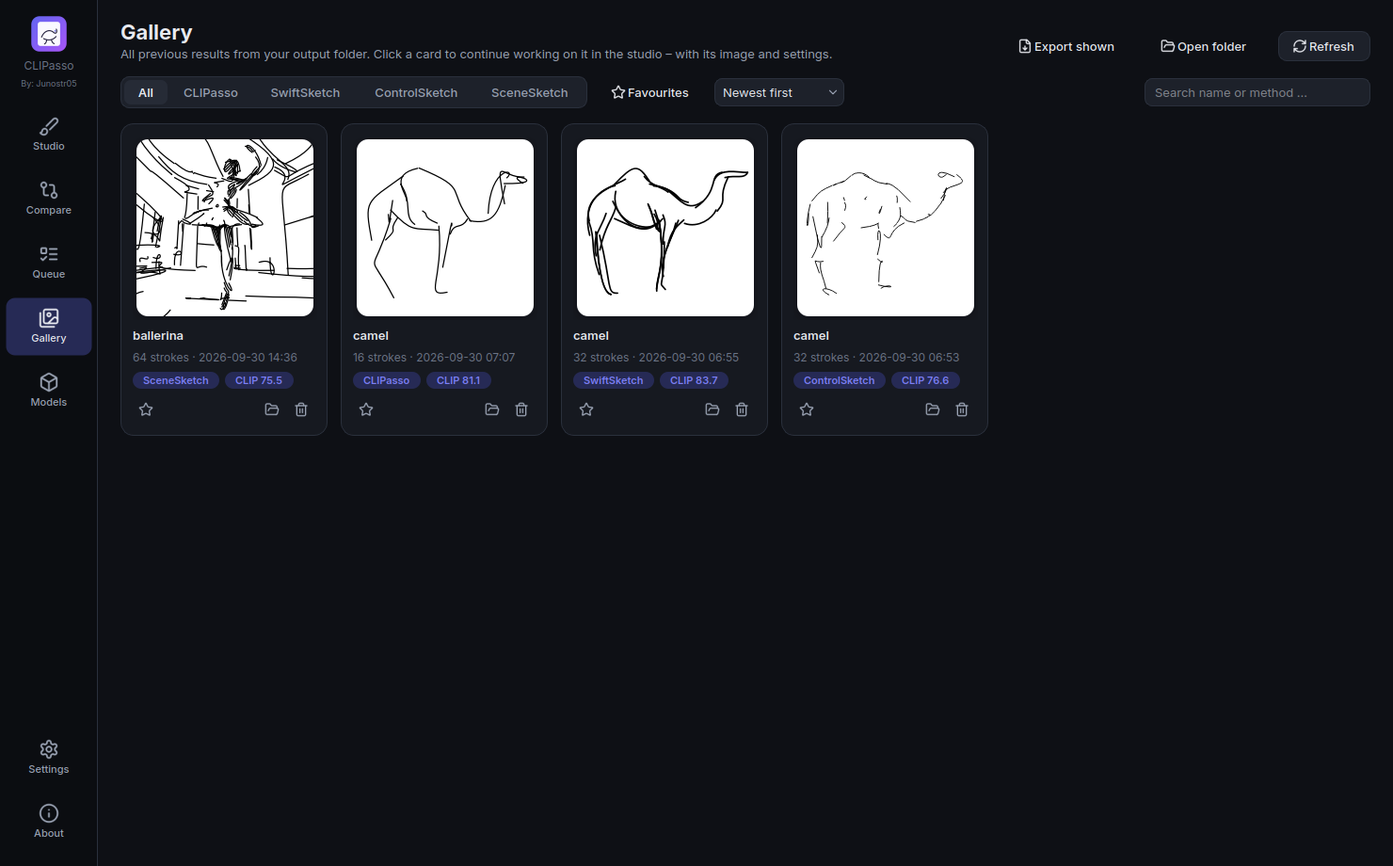
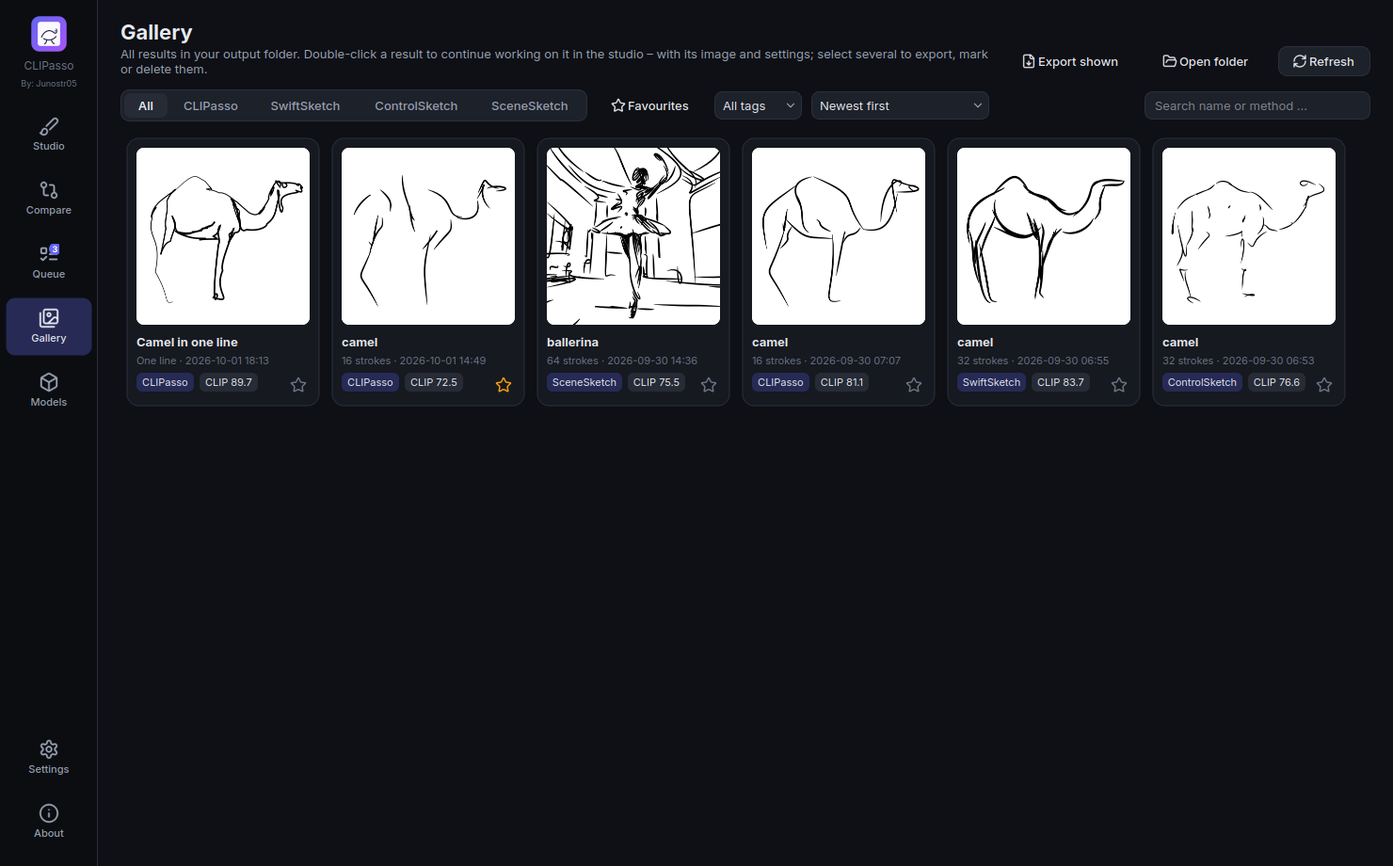
Release 3.0.0: version, README, release notes and screenshots
- version 3.0.0
- README: download table with the portable ZIP, the new features (turbo,
  one line, draw and continue, live brush style, free aspect ratio, inputs,
  gallery 2.0, queue control, watched folder, reliability), the faster
  renderer with measured times, TAESD credit
- release notes for 3.0 (measured numbers; results not bit-identical to 2.4)
- new screenshots (studio in ink style, gallery 2.0, queue, settings with
  watched folder and storage, SceneSketch, ControlSketch, light theme)
- tools/screenshots.py: --set for app settings, --queue for waiting jobs

Claude-Session: https://claude.ai/code/session_01S7pgJpBq7v1cwD5D27gajo

Changed region(s): [[0.0932, 0.0304, 0.9946, 0.487]]

diff --git a/tools/screenshots.py b/tools/screenshots.py
@@ -2,6 +2,7 @@
 
 Usage: python tools/screenshots.py OUT_DIR [--job JOB_DIR ...] [--theme dark|light] [--lang de|en]
                                    [--pages studio,studio:swiftsketch,compare,...]
+                                   [--set canvas_style=ink ...] [--queue IMAGE[:METHOD] ...]
 
 ``studio:<method>`` shows the studio with that method selected (and the given job of that method,
 if any); ``studio:<method>:<view>`` also picks the canvas view (e.g. ``studio:scenesketch:matrix``).
@@ -31,6 +32,8 @@ def main() -> int:
     ap.add_argument("--pages", default="studio,compare,queue,gallery,models,settings,about")
     ap.add_argument("--size", default="1480x920")
     ap.add_argument("--models", default="", help="folder of downloaded models to show as installed")
+    ap.add_argument("--set", action="append", default=[], help="app setting KEY=VALUE (VALUE as JSON or text)")
+    ap.add_argument("--queue", action="append", default=[], help="IMAGE[:METHOD] waiting in the queue")
     args = ap.parse_args()
 
     # isolated user data so the real settings are untouched
@@ -57,6 +60,14 @@ def main() -> int:
     s.data["language"] = args.lang
     if args.job:
         s.data["output_dir"] = str(Path(args.job[0]).parent)
+    import json
+
+    for item in args.set:
+        key, _, value = item.partition("=")
+        try:
+            s.data[key] = json.loads(value)
+        except ValueError:
+            s.data[key] = value
     theme.load_fonts()
     theme.apply(app, args.theme)
     i18n.set_language(args.lang)
@@ -64,14 +75,20 @@ def main() -> int:
     from clipasso_studio.gui.main_window import MainWindow
 
     w = MainWindow()
+    if args.queue:
+        from clipasso_studio import settings_schema as schema
+
+        w.controller.start_next = lambda: None  # waiting only
+        for item in args.queue:
+            image, _, method = item.rpartition(":") if item.count(":") > (1 if os.name == "nt" else 0) \
+                else (item, "", "")
+            w.controller.enqueue(image, schema.default_settings(method or "clipasso"), start=False)
     width, height = (int(v) for v in args.size.split("x"))
     w.resize(width, height)
     w.show()
     out = Path(args.out)
     out.mkdir(parents=True, exist_ok=True)
     pages = args.pages.split(",")
-
-    import json
 
     jobs = {}
     for j in args.job:

diff --git a/clipasso_studio/__init__.py b/clipasso_studio/__init__.py
@@ -1,5 +1,5 @@
 """CLIPasso Studio – desktop app for vector sketching from photos (CLIPasso, SwiftSketch, ControlSketch)."""
 
-__version__ = "2.4.0"
+__version__ = "3.0.0"
 APP_NAME = "CLIPasso Studio"
 APP_ID = "CLIPassoStudio"

diff --git a/README.md b/README.md
@@ -26,17 +26,18 @@
 </p>
 <p align="center"><sub>Made with this app on a CPU: CLIPasso (16 strokes, “Fast” preset, 11 min), SwiftSketch (32 strokes, 4 s per sketch), ControlSketch (32 strokes – only 250 of the 2000 iterations, 67 min; with an NVIDIA GPU the full run takes a few minutes).</sub></p>
 
-![Studio](docs/screenshots/studio_dark_en.png)
+![Studio – the CLIPasso sketch shown in the ink brush style](docs/screenshots/studio_dark_en.png)
 
 ## Download
 
-The [releases page](https://github.com/Junostr05/CLIPasso-Studio/releases/latest) has three variants:
+The [releases page](https://github.com/Junostr05/CLIPasso-Studio/releases/latest) has four variants:
 
 | File | Description |
 |---|---|
-| **`CLIPassoStudio-CPU-Portable.exe`** (≈ 1 GB) | A single file: download, double-click, done. No installation and no Python needed. Everything CLIPasso needs is included; SwiftSketch, ControlSketch and SceneSketch download their models the first time you use them (see below). It unpacks itself on start (15–40 s, with a splash screen). |
-| **`CLIPassoStudio-CPU-Setup.exe`** (≈ 1 GB) | The same app as an installer: install once, then it starts quickly and gets Start menu and desktop shortcuts. No admin rights needed. |
-| **`CLIPassoStudio-GPU-Setup.exe`** + `…-GPU-Setup-*.bin` (≈ 3.5 GB) | Edition for NVIDIA graphics cards (CUDA 12.8: GeForce GTX 16xx / RTX 20xx or newer, driver ≥ 570). CLIPasso and SceneSketch run 10–50× faster, and **ControlSketch is only practical with this edition**. Because it is larger than 2 GB, it is split into several files: **download all of them into the same folder** and run the `Setup.exe`. Without a suitable GPU it automatically falls back to the CPU. |
+| **`CLIPassoStudio-CPU-Portable.zip`** (≈ 1 GB) | Portable without installation: unpack the ZIP anywhere (e.g. a USB stick) and start `CLIPassoStudio.exe` in it. Starts as fast as the installed app and updates itself (the new version is unpacked next to the old folder, which it then offers to delete). |
+| **`CLIPassoStudio-CPU-Portable.exe`** (≈ 1 GB) | A single file: download, double-click, done. No installation and no Python needed. Everything CLIPasso needs is included; SwiftSketch, ControlSketch and SceneSketch download their models the first time you use them (see below). It unpacks itself on every start (15–40 s, with a splash screen). |
+| **`CLIPassoStudio-CPU-Setup.exe`** (≈ 1 GB) | The same app as an installer: install once, then it starts quickly and gets Start menu and desktop shortcuts. No admin rights needed. Uninstalling asks whether the downloaded models and the app data should be removed too (your sketches always stay). |
+| **`CLIPassoStudio-GPU-Setup.exe`** + `…-GPU-Setup-*.bin` (≈ 3.5 GB) | Edition for NVIDIA graphics cards (CUDA 12.8: GeForce GTX 16xx / RTX 20xx or newer, driver ≥ 570). CLIPasso and SceneSketch run 10–50× faster, and **ControlSketch is only practical with this edition**. Because it is larger than 2 GB, it is split into several files: **download all of them into the same folder** and run the `Setup.exe`. Without a suitable GPU it automatically falls back to the CPU. Can be installed next to the CPU edition (shortcut “CLIPasso Studio GPU”). |
 
 > Windows SmartScreen may warn about an “unknown publisher” (the exe is not signed) → *More info* → *Run anyway*.
 
@@ -80,21 +81,32 @@ Pick the method at the top of the studio with one click. Parameters, presets, ti
   - Checked by a test (`tests/test_settings.py`): every original argument has a setting with the same default value.
 - **Live preview** for all methods: you watch the sketch being drawn (for SwiftSketch every denoising step). Plus a photo/sketch slider, the attention map with the stroke start points, the mask, the ControlNet condition image for ControlSketch, a loss or CLIP score curve, the remaining time and thumbnails of all seeds. **Several sketches per image – the best one is picked automatically** (CLIPasso: lowest loss; SwiftSketch and ControlSketch: highest CLIP score).
 - **Presets** (Fast / Standard / Quality) per method, import/export of the settings as JSON, “copy command line”.
+- **Turbo mode** (CLIPasso, ControlSketch, SceneSketch) – faster, with a slightly different result: the CLIP features of a fixed set of augmentations are computed once, only the best of several sketches is finished (the others stop at a quarter), and a sketch stops once it no longer improves; ControlSketch uses the small TAESD decoder, a 384 px working canvas and, on CPUs with AVX512-BF16/AMX, bfloat16. Measured on 4 CPU cores: CLIPasso 1.02 → 0.70 s per iteration (a standard job with 3 sketches about 3× faster with the pruning), ControlSketch 15.1 → 2.3 s per iteration.
+- **One line** (CLIPasso): the subject in one single continuous stroke – the start points are joined into a short route and optimised as one path with many segments.
+- **Draw yourself and continue**: draw your own strokes into a finished sketch with the **pen**, then *Continue with CLIPasso* – your strokes stay fixed, CLIPasso adds new ones around them.
+- **Brush style live**: show the sketches in ink, pencil or marker right in the studio – also while they are being computed; the export starts with the same style.
 - **Precise object mask with BiRefNet**: finds the object for all four methods – far more accurately than U²-Net (fine details like poles, hair or cables, several objects, busy backgrounds). Downloaded once (444 MB); *BiRefNet lite* (faster, 89 MB) or the original U²-Net can be picked per method (“Mask model”). Masks are cached, so the same image is not computed twice.
 - **See and fix the mask before a run**: the studio shows the object on the input image as soon as you pick one. *Edit mask*: click a part to remove it, click next to the object to add an area of similar colour (magic wand), or paint with the brush – every method then uses your mask. Small objects in large photos are **framed automatically** so they fill the canvas (CLIPasso, SwiftSketch; can be switched off).
 - **Touch-ups**: crop, rotate or flip the input image right in the studio; remove single strokes from a finished sketch with the **eraser** (with undo – the original stays).
+- **Free aspect ratio**: export in the square of the method, **in the shape of the photo** or **cropped to the strokes** (with a margin) – the strokes stay vectors, only the frame changes. For every format, also when exporting many at once.
 - **Export**: SVG (stroke colour, width, background, **brush style**: plain, ink, pencil or marker), **SVG · 1 layer** (all strokes as one path in a single layer – for plotters, cutting machines such as Cricut or Silhouette, and laser software), PNG at any resolution, **PDF** (vector, for printing), **GIF / MP4 / animated WebP** – of the drawing process (for SwiftSketch: how the strokes emerge from noise) or **stroke by stroke** like by hand; you set how long the drawing takes and the frame rate follows. **SVG · animated**: an SVG that draws itself in the browser. **Copy** (Ctrl+C) puts the sketch on the clipboard. SceneSketch: the **whole matrix** as one ZIP (every sketch as SVG and PNG plus an overview sheet). Abstraction series with one click (CLIPasso, ControlSketch).
-- **Queue** for many images (a whole folder at once, or **drag & drop** images and folders), also with mixed methods, with pause/cancel, a notification when done and protection against sleep mode – and, for runs overnight, **sleep or shut down when done**. **Export all** results of the queue – or all results the gallery shows – in one go.
+- **Inputs**: JPEG, PNG, WebP, **HEIC/HEIF** (iPhone photos), **AVIF**, TIFF, BMP and GIF (photos are turned upright by their EXIF rotation), the clipboard, a **webcam photo** and the **recent images** menu.
+- **Queue** for many images (a whole folder at once, or **drag & drop** images and folders), also with mixed methods: **reorder by dragging**, pause/cancel/retry per row, details with the settings that differ from the defaults (*Load into the studio*, *Replace by the studio settings*), the total time left, a notification when done and protection against sleep mode – and, for runs overnight, **sleep or shut down when done**. Failed jobs stay in the queue after a restart. **Export all** results of the queue – or all results the gallery shows – in one go.
+- **Watched folder**: images saved into a chosen folder (e.g. by a scanner or a phone sync) are sketched by themselves with the studio settings or a preset and exported in the formats you pick; optionally moved into `done/` afterwards.
+- **Models stay loaded** between the jobs of a queue, and on a CPU with enough cores and memory the sketches of a CLIPasso or SwiftSketch job run **in parallel**.
 - **Continue interrupted jobs**: long runs save checkpoints; if the app or the PC closes (or you cancel), *Continue* picks up where it stopped – finished sketches are kept.
-- **Gallery** of all results: click one to continue working on it in the studio – with its image and settings (every job keeps a copy of its input image, so this works even after the original was moved or deleted). Favourites, sorting, search, method filter, “Show folder” and delete (to the recycle bin).
-- **Models** page grouped by method: download with progress, delete, manual import of the SwiftSketch weights (in case Google Drive hits its daily quota). Interrupted downloads continue where they stopped; the **model folder** can be moved to another drive.
+- **Gallery** of all results – fast also with thousands of sketches: click one to continue working on it in the studio – with its image and settings (every job keeps a copy of its input image, so this works even after the original was moved or deleted). **Multi-select** (Ctrl/Shift/rubber band) to delete, export or mark as favourite; **title, notes and tags** with a tag filter; sorting by date, score, duration, strokes or name; search, method filter, “Show folder”, keyboard control (arrows, Enter, Del, F, Ctrl+A).
+- **Models** page grouped by method: download with progress, delete, manual import of the SwiftSketch weights (in case Google Drive hits its daily quota). Downloads check the free space first, are verified by checksum and continue where they stopped (also from another mirror); the **model folder** can be moved to another drive.
 - **Dark/light theme**, **English/German** interface (follows the Windows language, switchable at runtime), keyboard shortcuts (Ctrl+V pastes an image, Ctrl+Enter starts), and a command-line mode that is compatible with the original arguments of all four methods.
-- **Updates with one click** (download, checksum check, install – can be switched off), adjustable **interface size** (90–150 %), a short **guide** on the first start (again on the About page) and a **crash log**: unexpected errors are shown and saved in a log file that you can attach to a bug report.
+- **Updates with one click** (download, checksum check, install – can be switched off, or *Check now*), with the release notes (*What's new?*); after an update the app shows what is new. Adjustable **interface size** (90–150 %), a short **guide** on the first start (again on the About page).
+- **Reliability**: when the graphics memory runs out, the app offers to continue on the CPU or with smaller settings (finished sketches are kept); a **crash log** with the Python stacks also of a crashed worker process; **Copy / save diagnostics** (version, system, GPU, folders, models, last log lines) for a bug report; a **storage** overview that clears caches, old updates and pasted images; when the output folder changes, the results can move along.
 
 <p>
   <img src="docs/screenshots/studio_scenesketch_dark_en.png" width="49%" alt="SceneSketch's matrix view in the studio">
   <img src="docs/screenshots/studio_controlsketch_dark_en.png" width="49%" alt="ControlSketch in the studio">
-  <img src="docs/screenshots/gallery_dark_en.png" width="49%" alt="Gallery with favourites and card actions">
+  <img src="docs/screenshots/gallery_dark_en.png" width="49%" alt="Gallery with titles, favourites and tags">
+  <img src="docs/screenshots/queue_dark_en.png" width="49%" alt="Queue with mixed methods and the total time left">
+  <img src="docs/screenshots/settings_dark_en.png" width="49%" alt="Settings: watched folder and storage">
   <img src="docs/screenshots/studio_light_en.png" width="49%" alt="Light theme">
 </p>
 
@@ -124,7 +136,7 @@ In CLI mode, missing models are downloaded automatically (`--no_download` preven
 ## How it works / differences from the originals
 
 **CLIPasso** – the original code (painter, loss, optimisation, selection of the best sketch), ported to Python 3.11 / PyTorch 2.11:
-- **Renderer:** instead of the C++/CUDA rasteriser *diffvg*, which is hard to build on Windows, the app uses a **differentiable Bézier renderer in pure PyTorch** (`clipasso_studio/engine/renderer.py`, gradients tested against finite differences). All three methods use it.
+- **Renderer:** instead of the C++/CUDA rasteriser *diffvg*, which is hard to build on Windows, the app uses a **differentiable Bézier renderer in pure PyTorch** (`clipasso_studio/engine/renderer.py`, gradients tested against finite differences). All four methods use it. Since 3.0 it bounds every Bézier segment separately and computes the distance with gradient only for the nearest segment: a CLIPasso render step takes 47–62 instead of 68–152 ms, a single line of 48 segments 40 instead of 4059 ms, ControlSketch 639 instead of 1752 ms (same image as before; gradients equal up to float summation order, so results are not bit-identical to 2.4).
 - **Bugs of the original fixed**, so that every option works: `percep_loss` (L2/LPIPS) and `clip_text_guide` were not wired up, `lr_scheduler` called a missing function, the “Cos” conv loss crashed for ResNets, `num_stages` was not implemented in the main loop, and `mask_object_attention`, `augment_both`, `include_target_in_aug` and `aug_scale_min` had no effect.
 
 **SwiftSketch** – an independent implementation of the transformer decoder, the DDPM sampler (cosine schedule, x₀ prediction, classifier-free guidance) and the refinement step; the original repository has no licence file, so no code is copied. It loads the **authors' official weights** unchanged and was checked against the original code: identical network outputs (max. difference 0.0) and sampler steps (≤ 1.4·10⁻⁶). One difference: the background mask comes from BiRefNet (or U²-Net) instead of BRIA RMBG-1.4, whose licence does not allow redistribution.
@@ -169,6 +181,7 @@ The complete Windows build (both editions, installers, self-test of the exe and 
 - **SwiftSketch / ControlSketch** – Ellie Arar, Yarden Frenkel, Daniel Cohen-Or, Ariel Shamir, Yael Vinker: *SwiftSketch: A Diffusion Model for Image-to-Vector Sketch Generation*, SIGGRAPH 2025 – [Paper](https://arxiv.org/abs/2502.08642) · [Project](https://swiftsketch.github.io/) · [Code](https://github.com/swiftsketch/SwiftSketch).
 - **SceneSketch (CLIPascene)** – Yael Vinker, Yuval Alaluf, Daniel Cohen-Or, Ariel Shamir: *CLIPascene: Scene Sketching with Different Types and Levels of Abstraction*, ICCV 2023 – [Paper](https://arxiv.org/abs/2211.17256) · [Project](https://clipascene.github.io/CLIPascene/) · [Code](https://github.com/yael-vinker/SceneSketch). The sample scenes (ballerina, house) come from its repository.
 - **LaMa** – Roman Suvorov et al.: *Resolution-robust Large Mask Inpainting with Fourier Convolutions*, WACV 2022 – [Code](https://github.com/advimman/lama).
+- **TAESD** – Ollin Boer Bohan: *Tiny AutoEncoder for Stable Diffusion* (MIT), used by the turbo mode of ControlSketch – [Code](https://github.com/madebyollin/taesd).
 - **BiRefNet** – Peng Zheng, Dehong Gao, Deng-Ping Fan, Li Liu, Jorma Laaksonen, Wanli Ouyang, Nicu Sebe: *Bilateral Reference for High-Resolution Dichotomous Image Segmentation*, CAAI Artificial Intelligence Research 2024 – [Code](https://github.com/ZhengPeng7/BiRefNet) · [Weights](https://huggingface.co/ZhengPeng7/BiRefNet).
 
 ### The app

diff --git a/packaging/release_notes.md b/packaging/release_notes.md
@@ -1,35 +1,49 @@
-## CLIPasso Studio 2.4 – a much better mask, and you can fix it
+## CLIPasso Studio 3.0 – faster, draw along, one line, free format
 
-**BiRefNet finds the object.** Removing the background (CLIPasso, SwiftSketch, ControlSketch) and separating object and background (SceneSketch) now use **BiRefNet**, a state-of-the-art segmentation network, instead of U²-Net. It keeps fine parts (a sign's pole, a shower hose, thin legs), finds several objects (two teddy bears instead of one) and leaves no grey haze of background around the object.
-- Downloaded once on the first run that removes the background (444 MB) – a few seconds per image on a CPU, well under one on a GPU. Masks are cached, so the same image is never computed twice.
-- **Mask model** in the image settings: *BiRefNet* (best, the default), *BiRefNet lite* (faster, 89 MB) or *U²-Net* (included, the original).
+**Turbo mode** (CLIPasso, ControlSketch, SceneSketch) – a switch in the input card: faster, with a slightly different result.
+- The CLIP features of a fixed set of 64 augmentations are computed once instead of every step; with several sketches all run to a quarter and only the best one is finished; a sketch stops once it no longer improves.
+- ControlSketch encodes with the small **TAESD** decoder (10 MB, downloaded on first use), works on a 384 px canvas and, on CPUs with AVX512-BF16/AMX, in bfloat16.
+- Measured on 4 CPU cores: CLIPasso 1.02 → 0.70 s per iteration (a standard job with 3 sketches about 3× faster with the pruning), ControlSketch 15.1 → 2.3 s per iteration.
 
-**See and fix the mask before you start**
-- The studio shows the object on your photo as soon as you pick one (the eye button hides it).
-- **Edit mask** (brush icon): click a part to remove it, click next to the object to add an area of similar colour (magic wand), or paint with the brush; undo / redo. Every method uses your mask – also in the queue and when a job is continued.
-- **Fit the object** (CLIPasso, SwiftSketch): a small object in a large photo is cropped so it fills the canvas – a full-size sketch instead of a tiny one.
+**Draw, continue, one line**
+- **Brush style live**: ink, pencil or marker right in the studio, also while the sketch is being computed (palette in the bar above the sketch).
+- **Pen + Continue with CLIPasso**: draw your own strokes into a finished sketch; CLIPasso adds new strokes around them and keeps yours fixed.
+- **One line**: CLIPasso draws the subject in one single continuous stroke.
 
-**Export**
-- **Stroke by stroke**: GIF, MP4 and WebP can show the finished strokes being drawn one after another, like by hand (or the drawing process as before).
-- **SVG · animated**: an SVG that draws itself in the browser – for websites and presentations.
-- **PDF** for printing (vector, any size) – also in “Export all”.
-- **Copy** (Ctrl+C, or the gallery card menu): the sketch goes to the clipboard – paste it into Word, PowerPoint, Figma, Photoshop …
+**Faster without turbo** – the same algorithms and the same quality as 2.4:
+- New stroke rasterizer: a CLIPasso render step takes 47–62 instead of 68–152 ms, one line of 48 segments 40 instead of 4059 ms, ControlSketch 639 instead of 1752 ms (measured on a CPU).
+- The models stay loaded between the jobs of a queue; on a CPU with at least 6 cores and enough memory the sketches of a CLIPasso or SwiftSketch job run in parallel.
+- The app starts without loading PyTorch; exports run in the background.
+- Note: the results are not bit-identical to 2.4 – tiny rounding differences of the new renderer grow over thousands of optimisation steps.
 
-**Workflow**
-- **Drag & drop** several images or whole folders onto the studio or the queue.
-- **When the queue is done**: sleep or shut down the PC after the last job (with a 60-second countdown) – for runs overnight.
-- **Model folder**: keep the downloaded models (up to ~10 GB) on another drive (Settings → Files).
-- A short **guide** on the first start (again via “Show the guide” on the About page).
+**Formats and inputs**
+- **Free aspect ratio**: export in the shape of the photo or cropped to the strokes (with a margin) – SVG, PNG, PDF, animations, copy and *Export all*.
+- **HEIC/HEIF** (iPhone), **AVIF**, TIFF, BMP, GIF; photos are turned upright by their EXIF rotation.
+- **Webcam** photo and a **Recent images** menu in the studio.
+
+**Gallery, queue, watched folder**
+- **Gallery 2.0**: fast with thousands of sketches; multi-select (delete, export, favourite), title / notes / tags with a filter, sorting by score, duration, strokes or name, keyboard.
+- **Queue**: reorder by dragging; pause, cancel, retry per row; details with *Load into the studio* and *Replace by the studio settings*; total time left. Failed and cancelled jobs stay after a restart.
+- **Watched folder** (Settings): images saved into a folder are sketched and exported by themselves.
+
+**Reliability**
+- Graphics memory full → continue on the CPU or with smaller settings; finished sketches are kept.
+- **Copy / save diagnostics** (Settings → System); rotated app log; the crash log of a crashed worker process is shown with the error.
+- **Storage** (Settings): clear the mask cache, thumbnails, old updates and pasted images; when the output folder changes, the results can move along.
+- Downloads check the free space first, verify every model by checksum and continue after an interruption, also from another mirror.
+- The installer removes the libraries of the old version when updating, names the shortcuts per edition (CPU and GPU side by side) and, when uninstalling, asks whether to remove the models and app data too.
+- *What's new?* in the update notice, *Check now* in the settings.
 
 | File | For whom? |
 |---|---|
-| **`CLIPassoStudio-CPU-Portable.exe`** | Just download and run – no installation. Works on any 64-bit Windows 10/11 PC. Starting takes about 15–40 s (unpacking). |
-| **`CLIPassoStudio-CPU-Setup.exe`** | The same app as an installer (faster start, Start menu entry). |
+| **`CLIPassoStudio-CPU-Portable.zip`** | **New:** portable without installation – unpack anywhere, start `CLIPassoStudio.exe`. Starts as fast as the installed app and updates itself. |
+| **`CLIPassoStudio-CPU-Portable.exe`** | A single file – no installation. Starting takes about 15–40 s (unpacking). |
+| **`CLIPassoStudio-CPU-Setup.exe`** | The app as an installer (fast start, Start menu entry). |
 | **`CLIPassoStudio-GPU-Setup.exe`** + **all `CLIPassoStudio-GPU-Setup-*.bin`** | NVIDIA GPU edition (CUDA 12.8: GeForce GTX 16xx / RTX 20xx or newer, driver ≥ 570): CLIPasso and SceneSketch 10–50× faster, ControlSketch in minutes instead of hours. **Download all files into the same folder**, then run `CLIPassoStudio-GPU-Setup.exe`. |
 
 **Notes**
 - Windows SmartScreen may warn on the first start (“Unknown publisher”) → *More info* → *Run anyway*.
-- CPU times: SwiftSketch ~5 s per sketch; CLIPasso “Fast” 5–15 min; SceneSketch “Fast” ≈ 20 min, “Standard” ≈ 2 h; ControlSketch several hours (GPU: a few minutes).
-- Updating: the installer versions install over the old version; downloaded models and settings are kept. From 2.3 on, *Install* in the update notice updates the app with one click.
+- CPU times: SwiftSketch ~5 s per sketch; CLIPasso “Fast” 5–15 min; SceneSketch “Fast” ≈ 20 min, “Standard” ≈ 2 h; ControlSketch several hours (GPU: a few minutes) – turbo mode shortens CLIPasso, ControlSketch and SceneSketch.
+- Updating: *Install* in the update notice updates the app with one click; the installer versions install over the old version. Downloaded models, settings, the queue and the gallery are kept.
 - Licence: CC BY-NC-SA 4.0 – **non-commercial use only**. The downloaded models have their own licences (see THIRD_PARTY_NOTICES.md).
 - Checksums: `SHA256SUMS-CPU.txt` and `SHA256SUMS-GPU.txt`.
